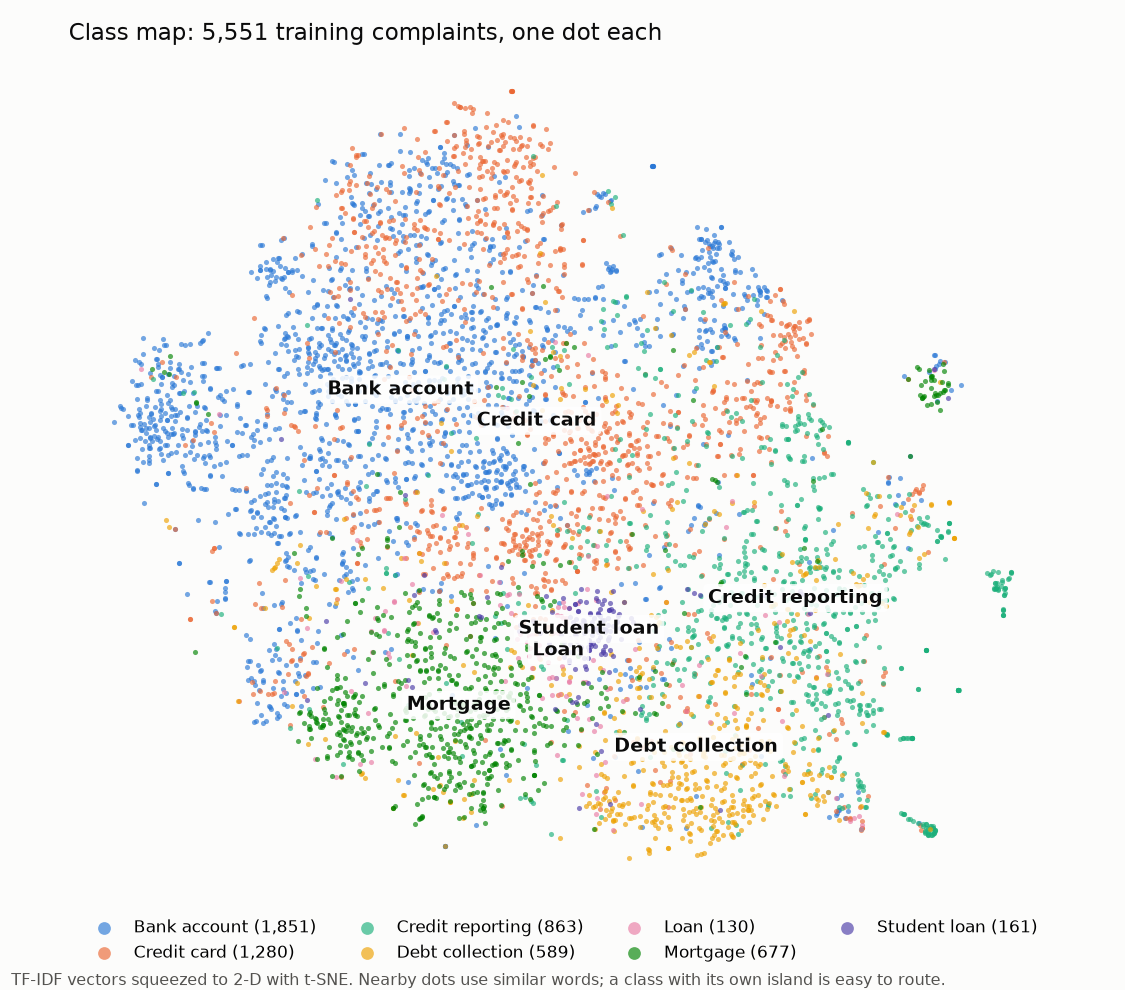
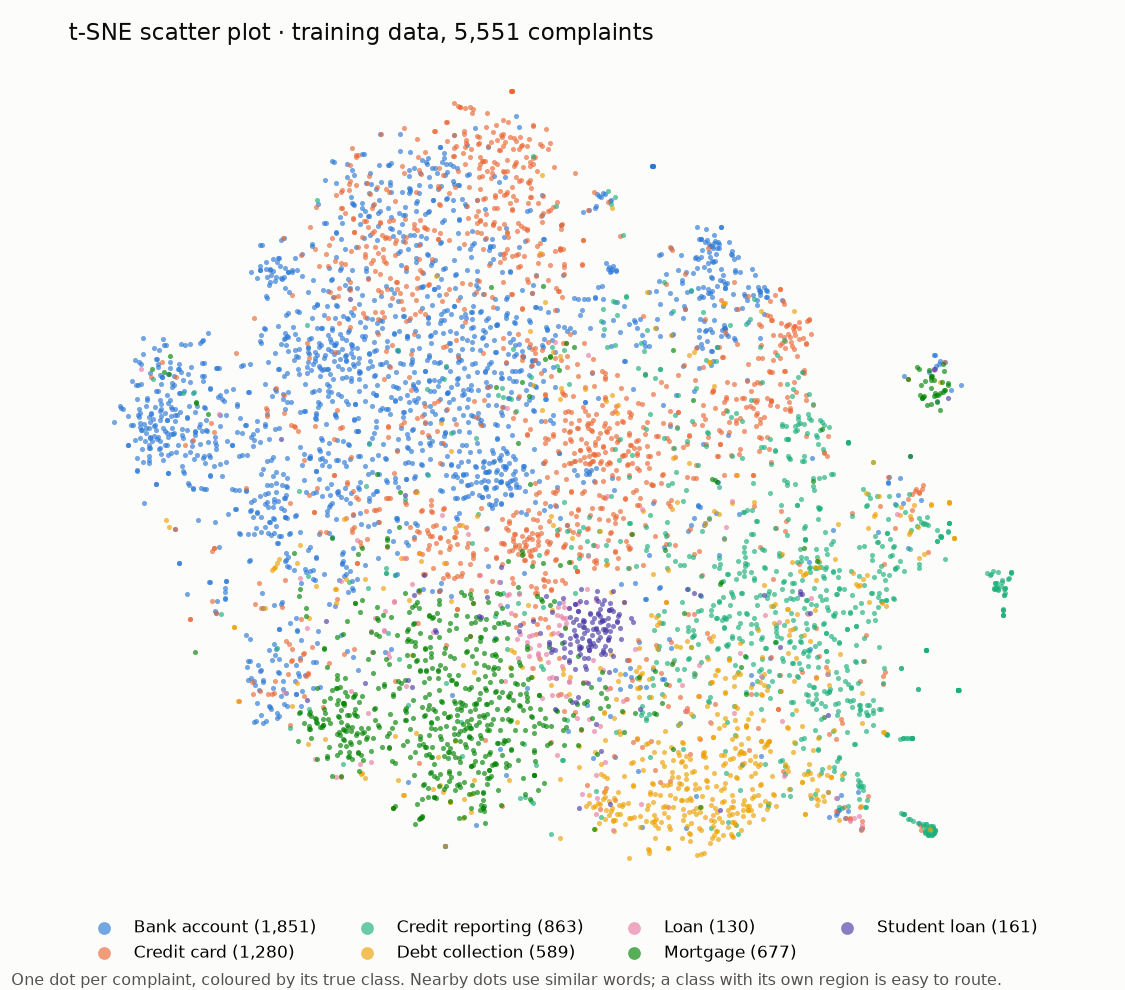
Class map: legend only, plain title; one threshold row in the README

diff --git a/src/complaints/evaluate.py b/src/complaints/evaluate.py
@@ -333,25 +333,12 @@ def plot_class_map(points: pd.DataFrame, path: Path) -> str:
             linewidths=0,
             label=f"{cls} ({len(part):,})",
         )
-    for cls in classes:
-        part = points[points[CLASS_COLUMN] == cls]
-        ax.text(
-            part["x"].median(),
-            part["y"].median(),
-            cls,
-            fontsize=9,
-            fontweight="bold",
-            ha="center",
-            va="center",
-            color=INK,
-            bbox=dict(boxstyle="round,pad=0.25", fc="white", ec="none", alpha=0.85),
-        )
     ax.set_xticks([])
     ax.set_yticks([])
     for spine in ax.spines.values():
         spine.set_visible(False)
     ax.set_title(
-        f"Class map: {len(points):,} training complaints, one dot each",
+        f"t-SNE scatter plot · training data, {len(points):,} complaints",
         loc="left",
         color=INK,
         fontsize=11,
@@ -367,8 +354,8 @@ def plot_class_map(points: pd.DataFrame, path: Path) -> str:
     fig.text(
         0.01,
         0.005,
-        "TF-IDF vectors squeezed to 2-D with t-SNE. Nearby dots use similar words; "
-        "a class with its own island is easy to route.",
+        "One dot per complaint, coloured by its true class. Nearby dots use similar words; "
+        "a class with its own region is easy to route.",
         fontsize=7.5,
         color=INK_SOFT,
     )

diff --git a/README.md b/README.md
@@ -43,8 +43,7 @@ Baseline model, scored once on the 1,388 complaints it never saw.
 | --- | --- |
 | Accuracy | 0.825 |
 | Macro F1 | 0.806 |
-| Threshold 0.55 | 71% routed at 90.7% accuracy |
-| Threshold 0.75 | 44% routed at 95.0% accuracy |
+| Routed automatically, threshold 0.75 | 44% of complaints, 95.0% of them correct |
 
 <p>
   <img src="reports/evaluate/figures/confusion_matrix.png" width="48%" alt="Confusion matrix on the test set">
